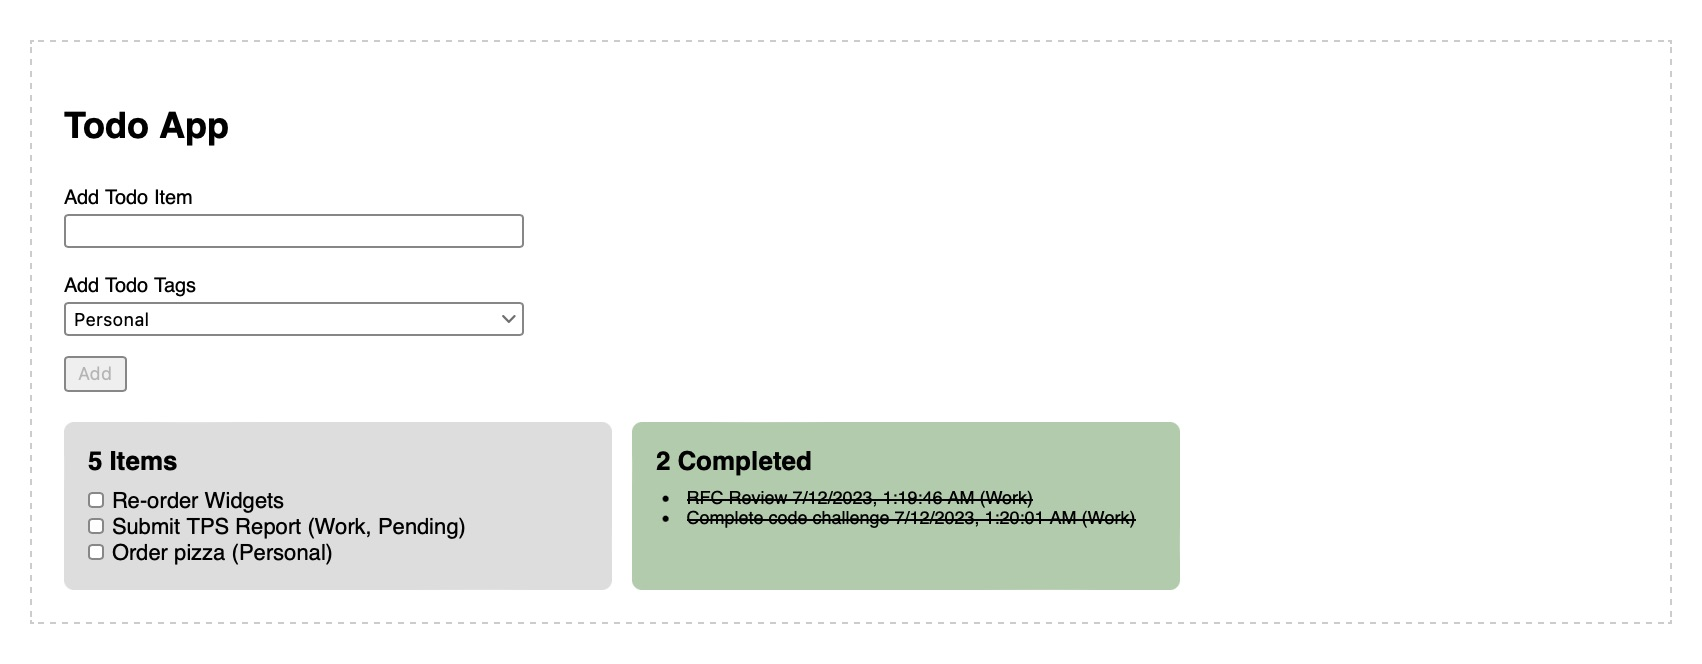
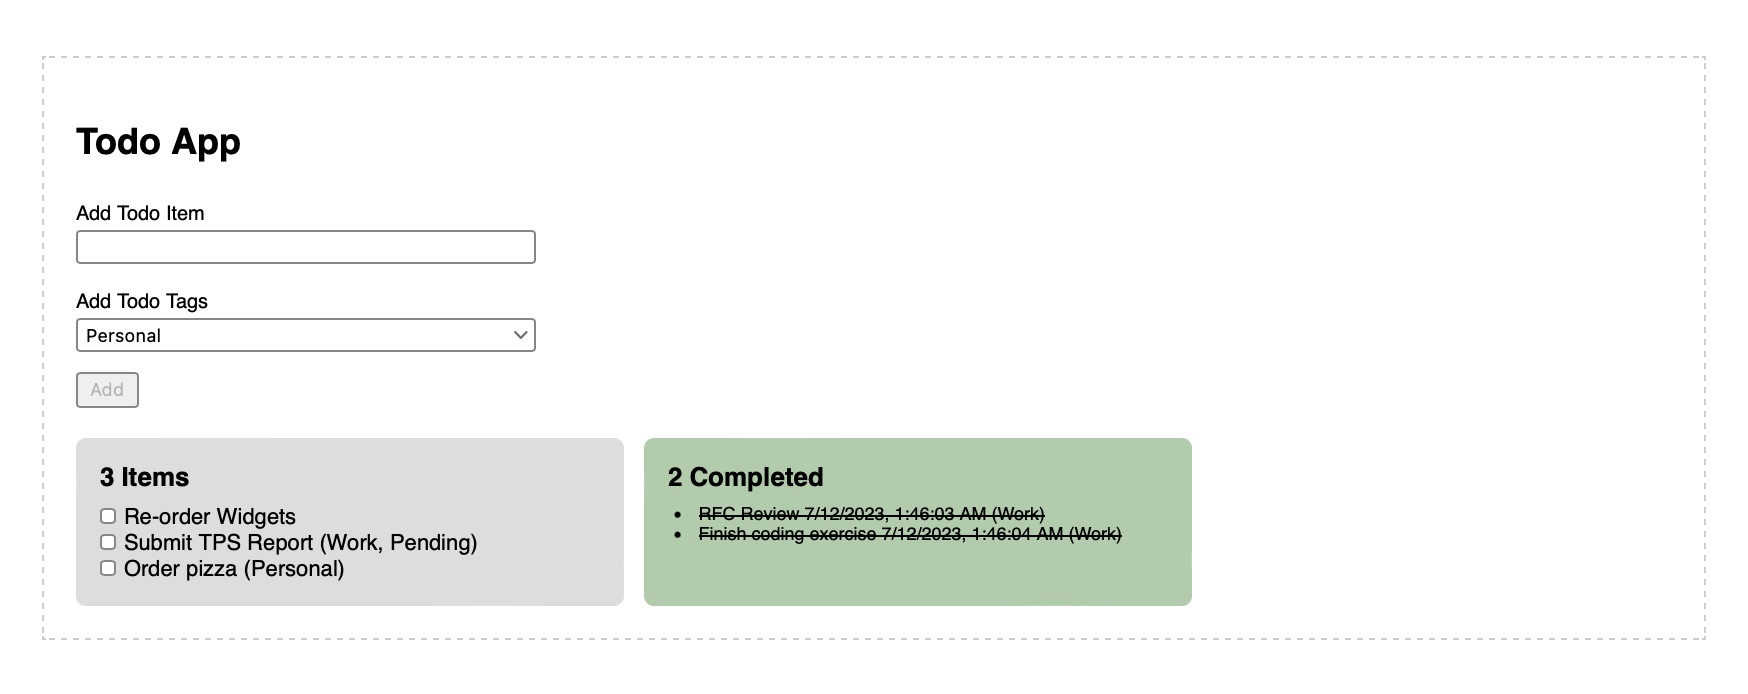
fix quantity bug in pending headline

diff --git a/src/TodoComponent/TodoComponent.tsx b/src/TodoComponent/TodoComponent.tsx
@@ -47,6 +47,9 @@ export function TodoComponent({ userId, todos, tags }: TodoComponentProps ): Rea
     todosDispatch!({ type: "CREATE", data: todo });
   }
 
+  const completedQty = getCompleted(todos);
+  const pendingQty = todos.length - completedQty;
+
   return (
     <div>
       <fieldset className={classNames(styles.fieldset, styles.inputFields)}>
@@ -68,7 +71,7 @@ export function TodoComponent({ userId, todos, tags }: TodoComponentProps ): Rea
 
       <div className={styles.grid}>
         <TodoCard
-          title={pluralize(todos.length, "Item", "Items")}
+          title={pluralize(pendingQty, "Item", "Items")}
           className={styles.pending
         }>
           <TodoList todos={todos} tags={tags} />

diff --git a/README.md b/README.md
@@ -2,7 +2,7 @@
 
 ## About my solution
 
-<img src="./todo-app.jpg" width="851" height="332" />
+<img src="./todo-app.jpg" width="874" height="347" />
 
 ### State management
 
